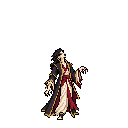
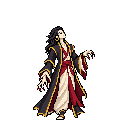
art: redraw Utburd and Vetala at larger native sprite sizes

Changed region(s): [[0.25, 0.1875, 0.75, 0.9375]]

diff --git a/docs/art/undead-sprites/index.html b/docs/art/undead-sprites/index.html
@@ -2,10 +2,10 @@
 <style>body{margin:0;background:#211f1b;color:#eee5cf;font:17px system-ui}main{max-width:1300px;margin:auto;padding:28px}h1{font-size:27px}button{padding:8px 16px;background:#3b3528;color:inherit;border:1px solid #a88c53;margin:4px;cursor:pointer}button[aria-pressed=true]{background:#665334}#units{display:flex;flex-wrap:wrap;align-items:flex-end;gap:12px;padding:18px;background:#414837}article{text-align:center}canvas{display:block;image-rendering:pixelated}p{line-height:1.5}small{display:block;color:#c2b69d}a{color:#e2c078}#status{color:#ddca9c}</style>
 <main><h1>Нежить: первые статические спрайты</h1><p>Слева — существующие юниты, далее пять новых. Одна клетка файла — один пиксель игры; общий уровень ног. Это сравнение арта, не кадр игрового боя.</p>
 <div id="scale"><button data-scale="1">1×</button><button data-scale="2" aria-pressed="true">2×</button><button data-scale="3">3×</button><button data-scale="4">4×</button></div>
-<div id="background"><button data-color="#414837">Земля</button><button data-color="#253449">Ночь</button><button data-color="#b3ad9c">Светлый фон</button></div><p id="status">Загрузка…</p><section id="units"></section><p>Прозрачные PNG: <a href="../../../content/art/prototypes/undead/">папка спрайтов</a>. <a href="comparison.png">Общий лист 1× / 2×</a>. <a href="sources/">Исходники генерации</a>.</p><small>Атаки, idle-анимации и способности этим этапом не добавлены. Статы согласованного ростера ещё не подключены.</small></main>
+<div id="background"><button data-color="#414837">Земля</button><button data-color="#253449">Ночь</button><button data-color="#b3ad9c">Светлый фон</button></div><p id="status">Загрузка…</p><section id="units"></section><p>Прозрачные PNG: <a href="../../../content/art/prototypes/undead/">папка спрайтов</a>. <a href="size-comparison.png">Старый и новый размер</a>. <a href="comparison.png">Общий лист 1× / 2×</a>. <a href="sources/">Исходники генерации</a>.</p><small>Атаки, idle-анимации и способности этим этапом не добавлены. Статы согласованного ростера ещё не подключены.</small></main>
 <script>
-const entries=[['Крестьянин','../../../content/art/unit.human.militia.png',56,66],['Кабачок','../../../content/art/unit.flora.thorn-guard.png',56,66],['Рыцарь','../../../content/art/unit.human.banner-knight.png',83,94],['Утбурд','../../../content/art/prototypes/undead/utburd.png'],['Силат','../../../content/art/prototypes/undead/silat.png'],['Нахцерер','../../../content/art/prototypes/undead/nachzehrer.png'],['Ветала','../../../content/art/prototypes/undead/vetala.png'],['Асура-Прета','../../../content/art/prototypes/undead/asura-preta.png']];let scale=2;
+const entries=[['Крестьянин','../../../content/art/unit.human.militia.png',56,66],['Кабачок','../../../content/art/unit.flora.thorn-guard.png',56,66],['Рыцарь','../../../content/art/unit.human.banner-knight.png',83,94],['Утбурд — старый','../../../content/art/prototypes/undead/utburd-small.png'],['Утбурд — крупнее','../../../content/art/prototypes/undead/utburd.png'],['Силат','../../../content/art/prototypes/undead/silat.png'],['Нахцерер','../../../content/art/prototypes/undead/nachzehrer.png'],['Ветала — старая','../../../content/art/prototypes/undead/vetala-small.png'],['Ветала — крупнее','../../../content/art/prototypes/undead/vetala.png'],['Асура-Прета','../../../content/art/prototypes/undead/asura-preta.png']];let scale=2;
 async function load(e){const img=new Image();img.src=e[1];await img.decode();const c=document.createElement('canvas');c.width=c.height=128;const ctx=c.getContext('2d');ctx.imageSmoothingEnabled=false;if(e[2]){const src=document.createElement('canvas');src.width=img.width;src.height=img.height;const s=src.getContext('2d');s.drawImage(img,0,0);const d=s.getImageData(0,0,img.width,img.height).data;let l=img.width,t=img.height,r=0,b=0;for(let y=0;y<img.height;y++)for(let x=0;x<img.width;x++)if(d[(y*img.width+x)*4+3]>=128){l=Math.min(l,x);t=Math.min(t,y);r=Math.max(r,x);b=Math.max(b,y)}const w=r-l+1,h=b-t+1,k=Math.min(e[2]/w,e[3]/h),dw=Math.round(w*k),dh=Math.round(h*k);ctx.drawImage(img,l,t,w,h,64-Math.floor(dw/2),120-dh,dw,dh)}else ctx.drawImage(img,0,0);const a=document.createElement('article');a.append(c);const label=document.createElement('div');label.textContent=e[0];a.append(label);document.querySelector('#units').append(a);}
 function resize(){document.querySelectorAll('canvas').forEach(c=>{c.style.width=c.style.height=128*scale+'px'});document.querySelectorAll('[data-scale]').forEach(b=>b.setAttribute('aria-pressed',Number(b.dataset.scale)===scale));}
-(async()=>{try{for(const e of entries)await load(e);resize();document.querySelector('#status').textContent='8 спрайтов загружено. Выберите масштаб и фон.'}catch(e){document.querySelector('#status').textContent='Не удалось загрузить изображения: '+e.message}})();document.querySelectorAll('[data-scale]').forEach(b=>b.onclick=()=>{scale=Number(b.dataset.scale);resize()});document.querySelectorAll('[data-color]').forEach(b=>b.onclick=()=>document.querySelector('#units').style.background=b.dataset.color);
+(async()=>{try{for(const e of entries)await load(e);resize();document.querySelector('#status').textContent='10 спрайтов загружено. Выберите масштаб и фон.'}catch(e){document.querySelector('#status').textContent='Не удалось загрузить изображения: '+e.message}})();document.querySelectorAll('[data-scale]').forEach(b=>b.onclick=()=>{scale=Number(b.dataset.scale);resize()});document.querySelectorAll('[data-color]').forEach(b=>b.onclick=()=>document.querySelector('#units').style.background=b.dataset.color);
 </script></html>

diff --git a/docs/art/undead-sprites/README.md b/docs/art/undead-sprites/README.md
@@ -4,10 +4,12 @@ Five generated transparent idle-pose candidates following the selected character
 
 Open `index.html` to compare the sprites against the existing peasant, cucumber and knight. `comparison.png` shows native 1x and nearest-neighbor 2x. This is an art comparison, not a screenshot of a battle.
 
-Exports are 128x128 RGBA PNGs, one output pixel per logical game pixel, common baseline y=120. Maximum visible boxes: Utburd 48x66, Silat 56x66, Nachzehrer 84x70, Vetala 56x72, Asura-Preta 112x108. Proportions are retained within each box; Asura is deliberately larger. Transparent padding is not body size.
+Exports are 128x128 RGBA PNGs, one output pixel per logical game pixel, common baseline y=120. Maximum visible boxes: Utburd 64x88, Silat 56x66, Nachzehrer 84x70, Vetala 68x94, Asura-Preta 112x108. Proportions are retained within each box; Asura is deliberately larger. Transparent padding is not body size.
 
 Run `pwsh -File docs/art/undead-sprites/Export.ps1` from any directory to reproduce exports and comparison. The packaging script only crops alpha bounds and samples nearest-neighbor; character drawing and design changes use image_gen. Sources are archived unchanged in `sources/`; `utburd-v1.png` preserves the first horror treatment. The soft simplified Utburd was rejected by the user and is not selected.
 
 Selected concepts: Silat D (crouched veiled sand spirit), Utburd B (burial bundle on thin supporting limbs), Vetala B from the refinement sheet (aristocratic vampire), Nachzehrer hybrid B/D, Asura original D with large sword and separate giant upper hands.
 
 Generation uses the built-in image_gen tool. Initial prompts and refinement notes are in `prompts.json`. Scale comparison and visual review are required before gameplay integration; per-unit scale will need to use these native visible dimensions rather than shrinking every 128x128 canvas into a standard unit box.
+
+Larger native revisions: size-comparison.png compares archived small versions against new Utburd (88px max height) and Vetala (94px max height), with knight reference. New artwork preserves hard sampling and dark undead identity while enlarging readable face/limb shapes. The old small PNGs remain archived for review. The size increase is intentional and is not a claim that high-resolution source alone fixes downsampling.
